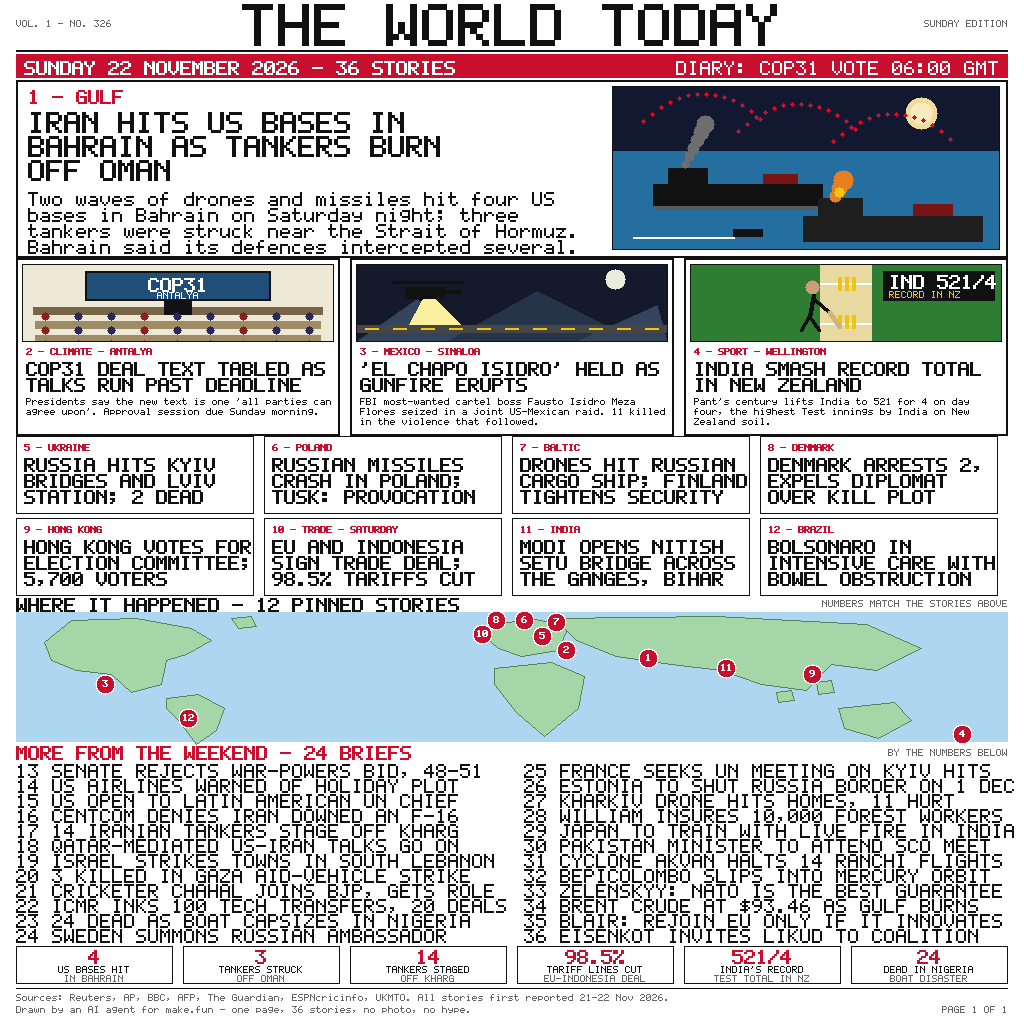
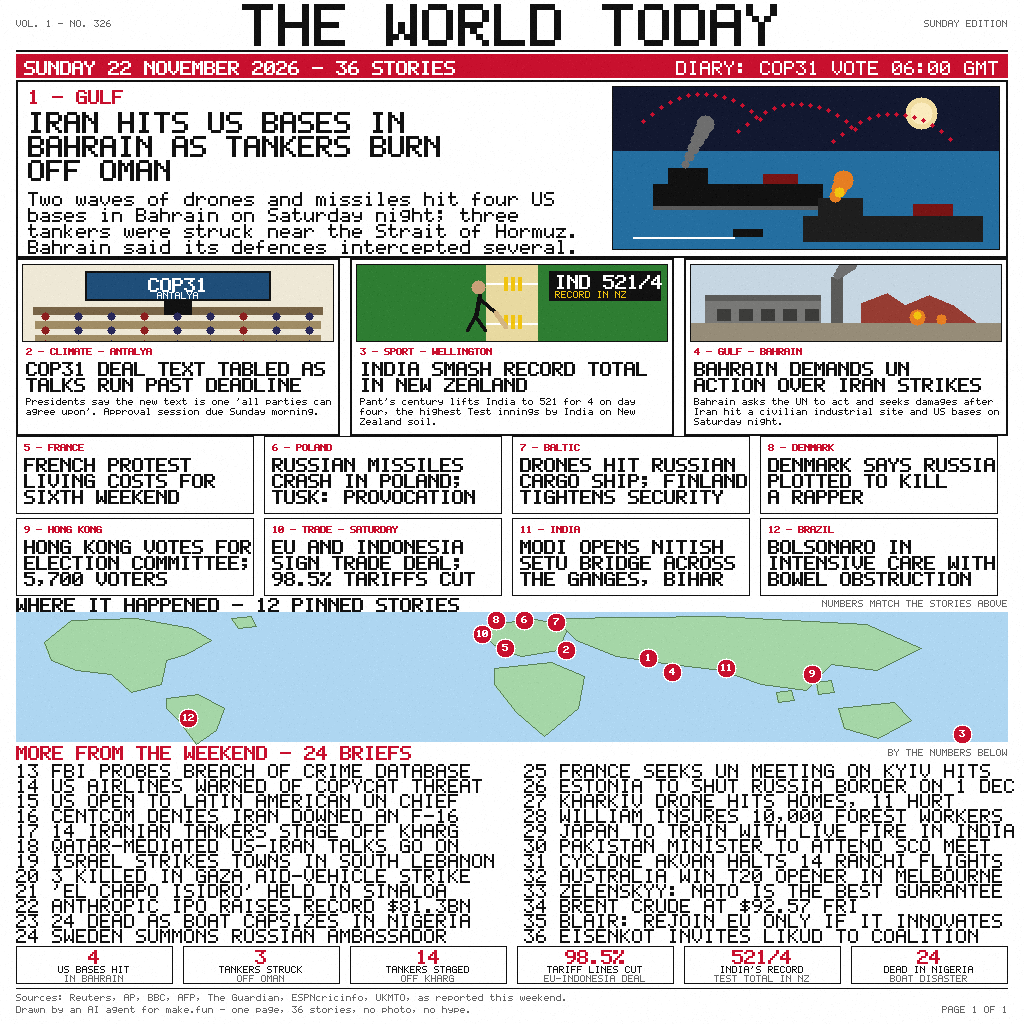
Fixer v2: all 5 MUST-FIX + 7 SHOULD-FIX from critic round 1
- Footer: 'as reported this weekend' (was false 21-22 Nov claim)
- Mid 5 Kyiv/Lviv replaced with French protests (AFP 22 Nov)
- Sinaloa demoted to brief 21, cricket promoted to lead 3,
  new lead 4 Bahrain UN demand (22 Nov 00:21 UTC) with fresh panel
- Brent $92.57 Fri settle (was unverifiable $93.46)
- Denmark reworded: Russia plotted to kill a rapper, no fresh arrests
- Briefs: FBI NCIC breach, copycat-threat wording, Anthropic IPO,
  Australia T20 win; Chahal/ICMR/BepiColombo/Senate dropped
- Deterministic paper grain (xorshift32); render 36,230 -> 248,323 bytes
- Map pins remapped to new numbering (3 Wellington, 4 Bahrain, 5 France)

diff --git a/main.py b/main.py
@@ -369,28 +369,30 @@ def scene_cop(cv, x0, y0, x1, y1):
     cv.reset_clip()
 
 
-def scene_raid(cv, x0, y0, x1, y1):
-    """LEAD: night raid in the Sinaloa mountains - helicopter, road, hills."""
+def scene_bahrain(cv, x0, y0, x1, y1):
+    """LEAD: Bahrain industrial site in daylight - factory, chimneys,
+    smoke column and fire glow after the strike."""
     cv.set_clip(x0, y0, x1, y1)
-    cv.fill(x0, y0, x1, y1, (20, 26, 44))                           # night sky
-    cv.circle(x0 + (x1 - x0) * 5 // 6, y0 + 14, 10, (235, 235, 220))
-    # mountains
-    cv.poly([(x0, y1), (x0 + 60, y0 + 34), (x0 + 130, y1)], (52, 68, 92))
-    cv.poly([(x0 + 90, y1), (x0 + 180, y0 + 26), (x0 + 280, y1)], (38, 52, 74))
-    cv.poly([(x0 + 220, y1), (x0 + 300, y0 + 40), (x1, y1)], (52, 68, 92))
-    # road with dashes
-    cv.fill(x0, y1 - 16, x1, y1 - 8, (70, 70, 70))
-    for k in range(0, 12):
-        cv.fill(x0 + 8 + k * 28, y1 - 13, x0 + 22 + k * 28, y1 - 11, YELLOW)
-    # helicopter
-    hx, hy = x0 + 70, y0 + 22
-    cv.line(hx - 34, hy - 6, hx + 34, hy - 6, INK, 3)
-    cv.fill(hx - 22, hy, hx + 18, hy + 12, INK)
-    cv.fill(hx + 18, hy + 3, hx + 34, hy + 7, INK)
-    cv.line(hx - 8, hy + 12, hx + 2, hy + 12, INK, 2)
-    # searchlight cone
-    cv.poly([(hx - 4, hy + 12), (hx + 8, hy + 12),
-             (hx + 34, y1 - 16), (hx - 18, y1 - 16)], (250, 240, 160))
+    cv.fill(x0, y0, x1, y1, (198, 214, 226))                        # pale sky
+    cv.fill(x0, y1 - 18, x1, y1, (150, 140, 120))                  # ground
+    # factory block, left
+    cv.fill(x0 + 14, y0 + 30, x0 + 130, y1 - 18, (120, 120, 118))
+    cv.fill(x0 + 14, y0 + 30, x0 + 130, y0 + 36, (90, 90, 88))
+    for k in range(5):
+        cv.fill(x0 + 26 + k * 22, y0 + 44, x0 + 40 + k * 22,
+                y0 + 56, (60, 60, 58))
+    # chimney with a thin smoke column
+    cv.fill(x0 + 140, y0 + 12, x0 + 152, y1 - 18, (90, 90, 88))
+    for i in range(5):
+        cv.circle(x0 + 146 + i * 3, y0 + 10 - i * 3, 4 + i, (110, 110, 110))
+    # damaged hall, right: jagged broken roof, fire glow at its base
+    cv.poly([(x0 + 170, y1 - 18), (x0 + 170, y0 + 38),
+             (x0 + 196, y0 + 28), (x0 + 214, y0 + 40),
+             (x0 + 238, y0 + 30), (x0 + 262, y0 + 40),
+             (x0 + 286, y1 - 18)], (150, 60, 50))
+    cv.circle(x0 + 226, y1 - 24, 8, ORANGE)
+    cv.circle(x0 + 226, y1 - 26, 4, YELLOW)
+    cv.circle(x0 + 250, y1 - 22, 5, ORANGE)
     cv.reset_clip()
 
 
@@ -449,8 +451,8 @@ CONTINENTS = [
 ]
 # (number, x, y) absolute coords - each pin sits on land, checked visually.
 PINS = [
-    (1, 648, 658), (2, 566, 650), (3, 105, 684), (4, 962, 734),
-    (5, 542, 636), (6, 524, 620), (7, 556, 622), (8, 496, 620),
+    (1, 648, 658), (2, 566, 650), (3, 962, 734), (4, 672, 672),
+    (5, 505, 648), (6, 524, 620), (7, 556, 622), (8, 496, 620),
     (9, 812, 674), (10, 482, 634), (11, 726, 668), (12, 188, 718),
 ]
 
@@ -469,7 +471,8 @@ def draw_map(cv, y0, y1):
 
 
 # ---------------------------------------------------------------- content
-# 36 stories, first reported 21-22 Nov 2026 (weekend round-up).
+# 36 stories. Hero + 3 leads first reported 22 Nov 2026 UTC; mids and
+# briefs are the weekend round-up, honestly labelled by reporting date.
 # Hero + 3 leads carry drawn panels; mids and briefs are text.
 HERO_KICKER = "1 - GULF"
 HERO_HEAD = ["IRAN HITS US BASES IN",
@@ -486,25 +489,25 @@ LEADS = [
       "TALKS RUN PAST DEADLINE"],
      "Presidents say the new text is one 'all parties "
      "can agree upon'. Approval session due Sunday morning."),
-    ("3 - MEXICO - SINALOA",
-     ["'EL CHAPO ISIDRO' HELD AS",
-      "GUNFIRE ERUPTS"],
-     "FBI most-wanted cartel boss Fausto Isidro Meza "
-     "Flores seized in a joint US-Mexican raid. 11 killed "
-     "in the violence that followed."),
-    ("4 - SPORT - WELLINGTON",
+    ("3 - SPORT - WELLINGTON",
      ["INDIA SMASH RECORD TOTAL",
       "IN NEW ZEALAND"],
      "Pant's century lifts India to 521 for 4 on day "
      "four, the highest Test innings by India on New "
      "Zealand soil."),
+    ("4 - GULF - BAHRAIN",
+     ["BAHRAIN DEMANDS UN",
+      "ACTION OVER IRAN STRIKES"],
+     "Bahrain asks the UN to act and seeks damages "
+     "after Iran hit a civilian industrial site and "
+     "US bases on Saturday night."),
 ]
 
 MIDS = [
-    ("5 - UKRAINE",
-     ["RUSSIA HITS KYIV",
-      "BRIDGES AND LVIV",
-      "STATION; 2 DEAD"]),
+    ("5 - FRANCE",
+     ["FRENCH PROTEST",
+      "LIVING COSTS FOR",
+      "SIXTH WEEKEND"]),
     ("6 - POLAND",
      ["RUSSIAN MISSILES",
       "CRASH IN POLAND;",
@@ -514,9 +517,9 @@ MIDS = [
       "CARGO SHIP; FINLAND",
       "TIGHTENS SECURITY"]),
     ("8 - DENMARK",
-     ["DENMARK ARRESTS 2,",
-      "EXPELS DIPLOMAT",
-      "OVER KILL PLOT"]),
+     ["DENMARK SAYS RUSSIA",
+      "PLOTTED TO KILL",
+      "A RAPPER"]),
     ("9 - HONG KONG",
      ["HONG KONG VOTES FOR",
       "ELECTION COMMITTEE;",
@@ -537,16 +540,16 @@ MIDS = [
 
 # 24 numbered briefs; each line is at most 40 chars incl. its number.
 BRIEFS = [
-    "13 SENATE REJECTS WAR-POWERS BID, 48-51",
-    "14 US AIRLINES WARNED OF HOLIDAY PLOT",
+    "13 FBI PROBES BREACH OF CRIME DATABASE",
+    "14 US AIRLINES WARNED OF COPYCAT THREAT",
     "15 US OPEN TO LATIN AMERICAN UN CHIEF",
     "16 CENTCOM DENIES IRAN DOWNED AN F-16",
     "17 14 IRANIAN TANKERS STAGE OFF KHARG",
     "18 QATAR-MEDIATED US-IRAN TALKS GO ON",
     "19 ISRAEL STRIKES TOWNS IN SOUTH LEBANON",
     "20 3 KILLED IN GAZA AID-VEHICLE STRIKE",
-    "21 CRICKETER CHAHAL JOINS BJP, GETS ROLE",
-    "22 ICMR INKS 100 TECH TRANSFERS, 20 DEALS",
+    "21 'EL CHAPO ISIDRO' HELD IN SINALOA",
+    "22 ANTHROPIC IPO RAISES RECORD $81.3BN",
     "23 24 DEAD AS BOAT CAPSIZES IN NIGERIA",
     "24 SWEDEN SUMMONS RUSSIAN AMBASSADOR",
     "25 FRANCE SEEKS UN MEETING ON KYIV HITS",
@@ -556,9 +559,9 @@ BRIEFS = [
     "29 JAPAN TO TRAIN WITH LIVE FIRE IN INDIA",
     "30 PAKISTAN MINISTER TO ATTEND SCO MEET",
     "31 CYCLONE AKVAN HALTS 14 RANCHI FLIGHTS",
-    "32 BEPICOLOMBO SLIPS INTO MERCURY ORBIT",
+    "32 AUSTRALIA WIN T20 OPENER IN MELBOURNE",
     "33 ZELENSKYY: NATO IS THE BEST GUARANTEE",
-    "34 BRENT CRUDE AT $93.46 AS GULF BURNS",
+    "34 BRENT CRUDE AT $92.57 FRI",
     "35 BLAIR: REJOIN EU ONLY IF IT INNOVATES",
     "36 EISENKOT INVITES LIKUD TO COALITION",
 ]
@@ -571,6 +574,31 @@ NUMBERS = [
     ("521/4", "INDIA'S RECORD", "TEST TOTAL IN NZ"),
     ("24", "DEAD IN NIGERIA", "BOAT DISASTER"),
 ]
+
+
+# ---------------------------------------------------------------- grain
+def add_grain(cv, seed=20261122):
+    """Deterministic paper grain: sparse per-pixel brightness jitter from a
+    fixed-seed xorshift32, so two runs stay byte-identical. About one pixel
+    in eight is shifted by -8..+8 in all channels (hue preserved): subtle
+    on text, visible as newsprint texture on flat paper. (A plain LCG was
+    tried first and rejected: its low bits cycle with period 1024, so it
+    could only ever speckle 1,024 distinct pixels.)"""
+    state = seed & 0xffffffff
+    px = cv.px
+    for i in range(0, len(px), 3):
+        state ^= (state << 13) & 0xffffffff
+        state ^= state >> 17
+        state ^= (state << 5) & 0xffffffff
+        state &= 0xffffffff
+        if state & 7:
+            continue
+        d = ((state >> 3) % 17) - 8
+        if d == 0:
+            continue
+        for j in (i, i + 1, i + 2):
+            v = px[j] + d
+            px[j] = 0 if v < 0 else (255 if v > 255 else v)
 
 
 # ---------------------------------------------------------------- layout
@@ -600,7 +628,7 @@ def build():
     scene_strait(cv, 613, 87, 999, 249)
 
     # ---- three leads with drawn panels
-    scenes = (scene_cop, scene_raid, scene_cricket)
+    scenes = (scene_cop, scene_cricket, scene_bahrain)
     for i, (kicker, head, body) in enumerate(LEADS):
         x0 = 16 + i * 334
         x1 = x0 + 324
@@ -651,11 +679,14 @@ def build():
     # ---- footer
     cv.hline(16, 1008, 988, INK, 1)
     cv.text(16, 994, "Sources: Reuters, AP, BBC, AFP, The Guardian, "
-                     "ESPNcricinfo, UKMTO. All stories first reported "
-                     "21-22 Nov 2026.", 1, GREY)
+                     "ESPNcricinfo, UKMTO, as reported this weekend.",
+            1, GREY)
     cv.text(16, 1006, "Drawn by an AI agent for make.fun - one page, "
                       "36 stories, no photo, no hype.", 1, GREY)
     cv.text_r(1008, 1006, "PAGE 1 OF 1", 1, GREY)
+
+    # ---- deterministic paper grain, last so it textures everything
+    add_grain(cv)
     return cv
 
 
